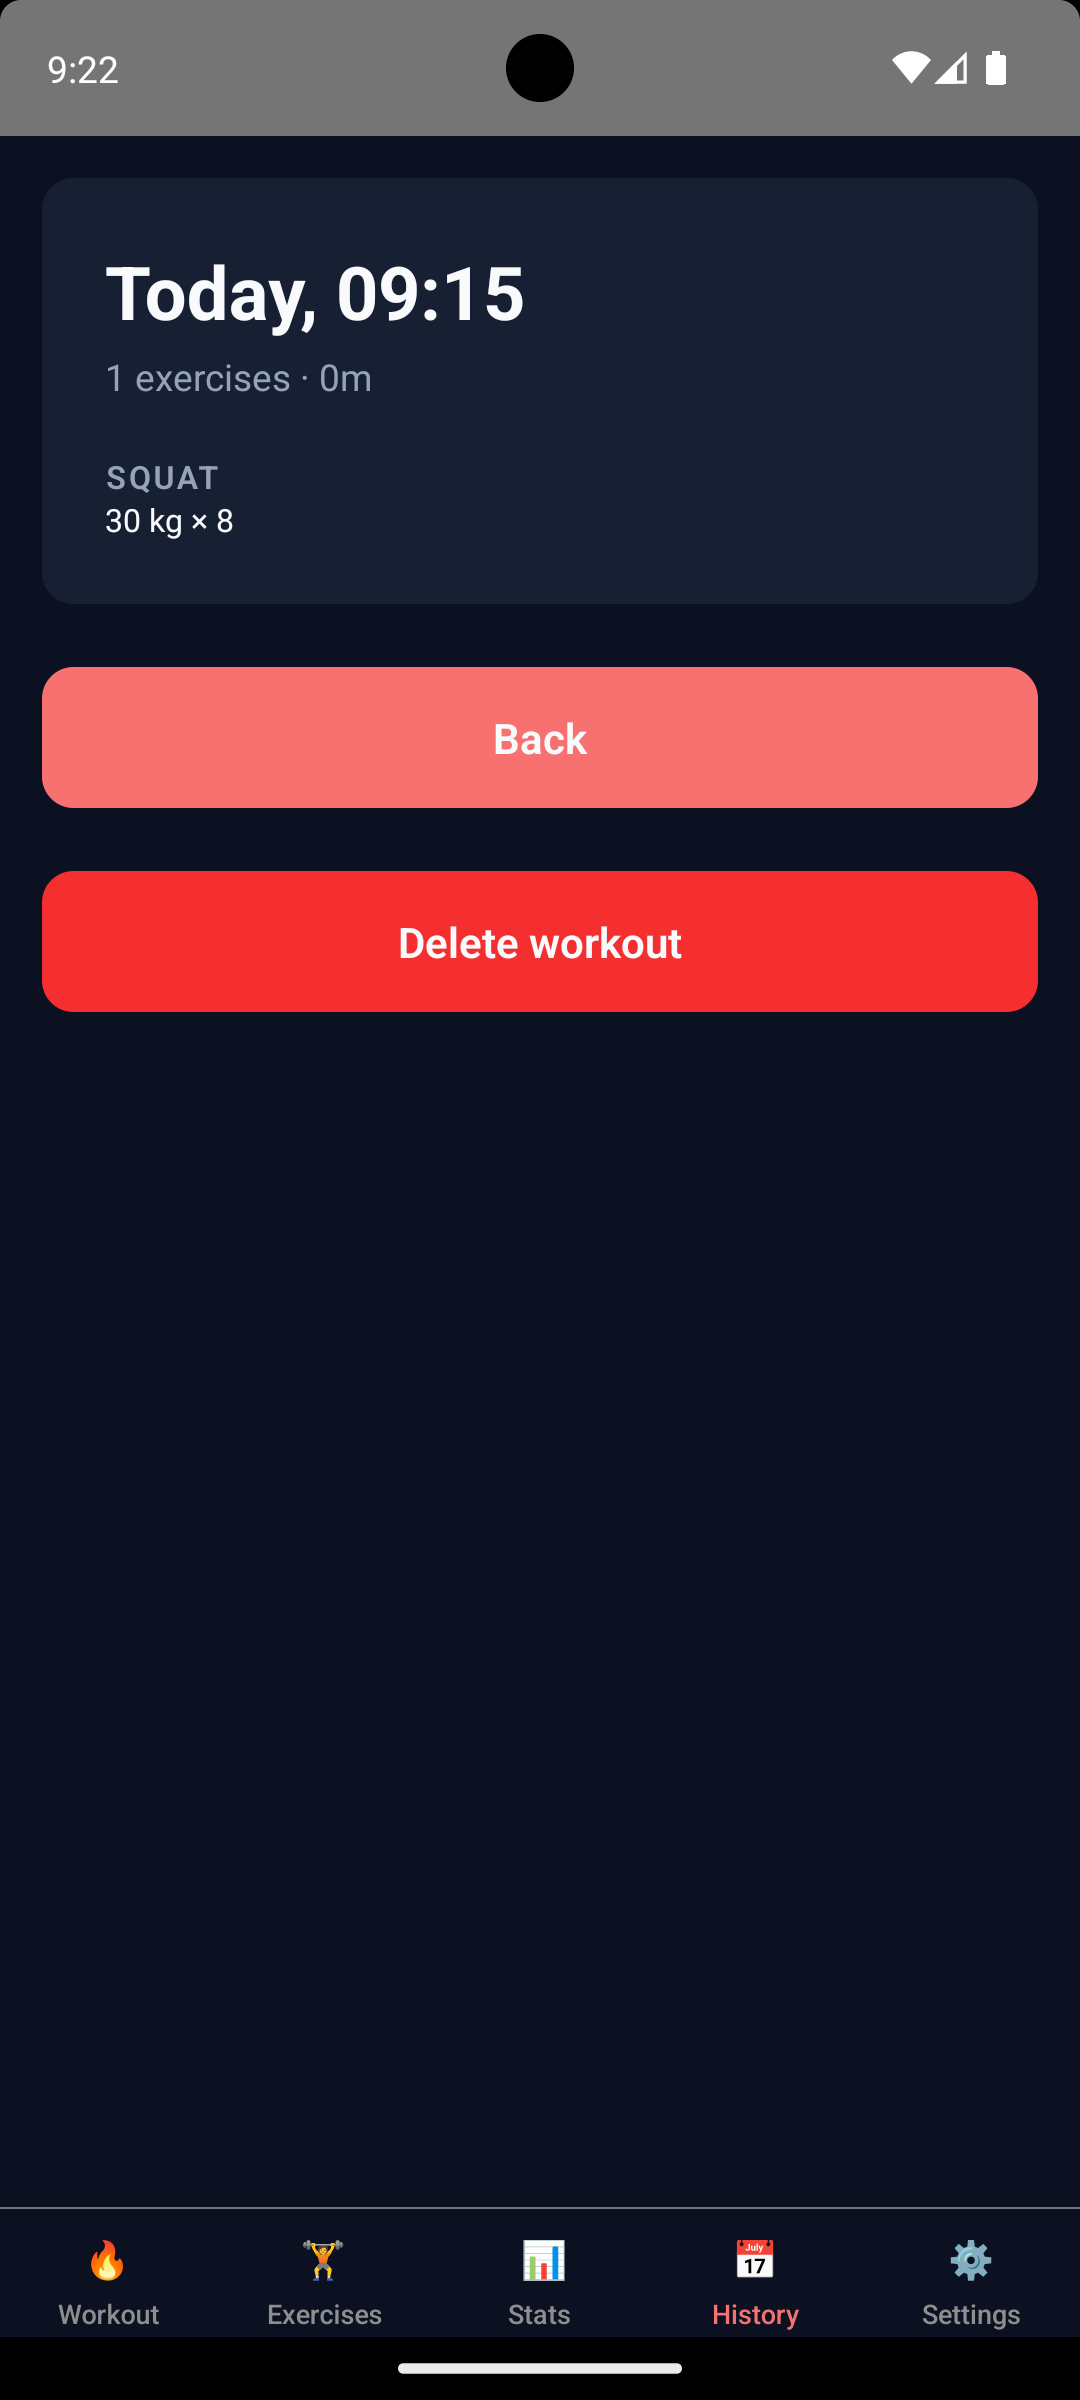
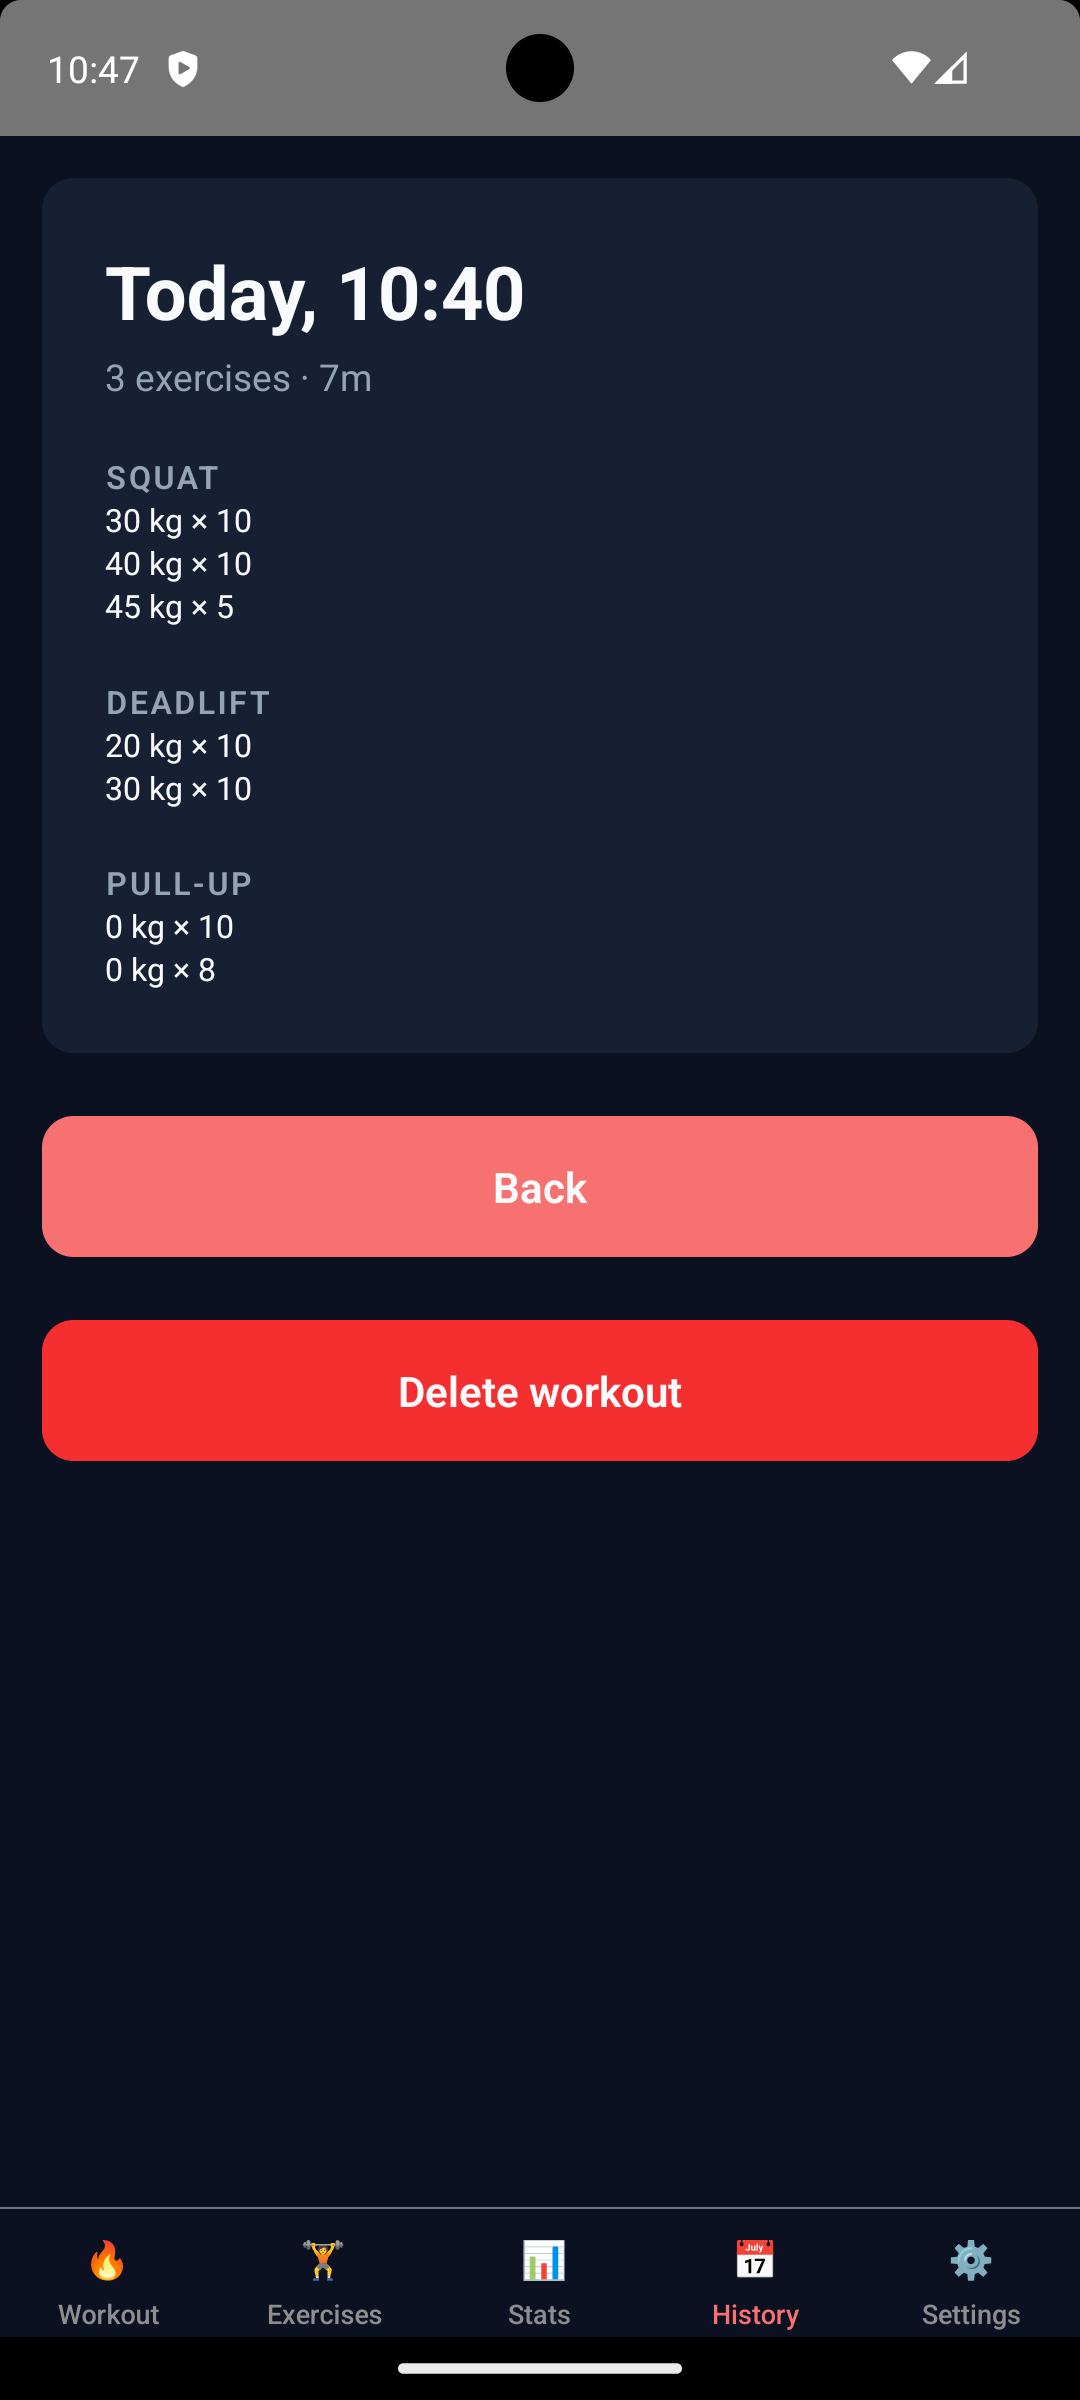
docs: reflect stats and rest timer features in readme

diff --git a/README.md b/README.md
@@ -1,97 +1,148 @@
-This is a new [**React Native**](https://reactnative.dev) project, bootstrapped using [`@react-native-community/cli`](https://github.com/react-native-community/cli).
+# Workout Journal
 
-# Getting Started
+A minimalist strength-training tracker built with modern React Native. Log workouts, track sets and reps, and see your history — all offline-first, with a dark theme and native-feeling gestures.
 
-> **Note**: Make sure you have completed the [Set Up Your Environment](https://reactnative.dev/docs/set-up-your-environment) guide before proceeding.
+![Platform iOS](https://img.shields.io/badge/iOS-17%2B-black)
+![Platform Android](https://img.shields.io/badge/Android-8%2B-green)
+![React Native 0.85](https://img.shields.io/badge/React%20Native-0.85-61dafb)
+![TypeScript strict](https://img.shields.io/badge/TypeScript-strict-3178c6)
 
-## Step 1: Start Metro
+## Screenshots
 
-First, you will need to run **Metro**, the JavaScript build tool for React Native.
+| Sign in                                 | Workout                                  | History                                  | Detail                                 | Stats                              |
+| --------------------------------------- | ---------------------------------------- | ---------------------------------------- | -------------------------------------- | ---------------------------------- |
+| ![Sign in](docs/screenshots/signin.png) | ![Workout](docs/screenshots/workout.png) | ![History](docs/screenshots/history.png) | ![Detail](docs/screenshots/detail.png) | ![Stats](docs/screenshots/stats.png) |
 
-To start the Metro dev server, run the following command from the root of your React Native project:
+## What it does
 
-```sh
-# Using npm
-npm start
+- **Start a workout** from the Workout tab — creates an empty active workout.
+- **Add exercises** from a curated library or your own custom ones.
+- **Log sets** — weight × reps, mark completed, delete individual sets.
+- **Finish workout** — captures duration, moves to History.
+- **Browse history** — swipe left on any workout to delete, tap for full breakdown.
+- **Manage exercises** — 10 preset exercises + your own custom ones, grouped by muscle.
+- **Haptic feedback** — via a custom TurboModule, real vibration on gestures and timer end.
+- **Rest timer** — quick presets (60/90/120s) with a Skia progress ring and haptic notification when done.
+- **Stats** — total workouts, weekly count, exercises and sets, plus a Skia bar chart of workouts per week.
 
-# OR using Yarn
-yarn start
-```
+Data is persisted locally with MMKV. No backend required.
 
-## Step 2: Build and run your app
+## Tech stack
 
-With Metro running, open a new terminal window/pane from the root of your React Native project, and use one of the following commands to build and run your Android or iOS app:
+This project was built as a hands-on tour of the modern React Native ecosystem. Highlights:
 
-### Android
+**Core**
 
-```sh
-# Using npm
-npm run android
+- React Native `0.85.3` (bare CLI, no Expo)
+- New Architecture (Bridgeless, Fabric, Hermes V1) enabled by default
+- React `19.2.3` + React Compiler (automatic memoization)
+- TypeScript `5.8` strict mode with path aliases
 
-# OR using Yarn
-yarn android
-```
+**Navigation**
 
-### iOS
+- React Navigation v7 with the **Static API**
+- Native Stack + Bottom Tabs, nested navigators, modal presentation
+- Switching pattern for auth via `groups` + `if` hooks
+- Deep linking with custom URL scheme (`workoutjournal://`)
 
-For iOS, remember to install CocoaPods dependencies (this only needs to be run on first clone or after updating native deps).
+**State**
 
-The first time you create a new project, run the Ruby bundler to install CocoaPods itself:
+- **TanStack Query** for server state (workouts, exercises)
+- **Zustand** + persist for auth, with **MMKV** as the sync storage backend
+- Correct query key hygiene and mutation invalidations throughout
 
-```sh
+**UI / Interactivity**
+
+- **Reanimated 4** + `react-native-worklets` for UI-thread animations
+- **Gesture Handler v3** (hook-based API) for swipe-to-delete, tap composition
+- **Skia** for the rest timer's progress ring and the weekly bar chart on Stats
+- **FlashList v2** for virtualized lists
+
+**Native modules (custom TurboModules)**
+
+- `AppInfo` — reads bundle version and identifier natively
+- `Haptics` — cross-platform haptic feedback via `UIImpactFeedbackGenerator` (iOS) and `Vibrator` API with waveform patterns (Android)
+
+**Build & CI**
+
+- **Fastlane** with lanes for iOS and Android debug/release builds
+- **GitHub Actions** running lint + type-check on every PR
+
+**Tests**
+
+- **Jest** + **React Native Testing Library** for component tests
+- **Maestro** for end-to-end flows (login, create workout)
+
+## Requirements
+
+- macOS with **Xcode 26+**
+- **Android Studio** with SDK 36 and NDK 27
+- **Node 22+**
+- **JDK 17** (`brew install openjdk@17`)
+- **Ruby 3.3+** with `bundler` (for `pod install`)
+- Physical device recommended for haptic testing (simulators don't vibrate)
+
+## Getting started
+
+```bash
+# 1. Install JS dependencies
+npm install
+
+# 2. Install iOS pods
+cd ios
 bundle install
-```
-
-Then, and every time you update your native dependencies, run:
-
-```sh
 bundle exec pod install
+cd ..
+
+# 3. Run
+npm run android   # or npm run ios
 ```
 
-For more information, please visit [CocoaPods Getting Started guide](https://guides.cocoapods.org/using/getting-started.html).
+On some setups Xcode 26 writes `objectVersion = 70` to the Xcode project, which the current `xcodeproj` gem doesn't fully support. If `pod install` fails with that error, downgrade the version in `ios/WorkoutJournal.xcodeproj/project.pbxproj` to `56` before running `pod install`, then let Xcode upgrade it back on open.
 
-```sh
-# Using npm
-npm run ios
+## Testing
 
-# OR using Yarn
-yarn ios
+```bash
+npm test                       # Jest unit + component tests
+maestro test .maestro/         # E2E flows (requires simulator with app installed)
 ```
 
-If everything is set up correctly, you should see your new app running in the Android Emulator, iOS Simulator, or your connected device.
+## Project structure
 
-This is one way to run your app — you can also build it directly from Android Studio or Xcode.
+```
+src/
+├── api/           # data-layer functions (pure async, MMKV-backed)
+├── components/    # reusable UI
+├── haptics/       # public wrapper over Haptics TurboModule
+├── hooks/         # TanStack Query hooks
+├── navigation/    # RootStack, RootTabs, HistoryStack
+├── screens/       # feature screens
+├── specs/         # TurboModule TS specs (Codegen input)
+├── stores/        # Zustand stores
+├── storage/       # MMKV singleton
+├── theme/         # design tokens (dark theme)
+├── types/         # global type augmentations
+└── utils/         # small helpers
+```
 
-## Step 3: Modify your app
+Native code lives in:
 
-Now that you have successfully run the app, let's make changes!
+- `android/app/src/main/java/com/workoutjournal/modules/` — Kotlin modules
+- `ios/modules/` — Obj-C++ modules
 
-Open `App.tsx` in your text editor of choice and make some changes. When you save, your app will automatically update and reflect these changes — this is powered by [Fast Refresh](https://reactnative.dev/docs/fast-refresh).
+## Known limitations
 
-When you want to forcefully reload, for example to reset the state of your app, you can perform a full reload:
+Honest list of what's rough or unfinished:
 
-- **Android**: Press the <kbd>R</kbd> key twice or select **"Reload"** from the **Dev Menu**, accessed via <kbd>Ctrl</kbd> + <kbd>M</kbd> (Windows/Linux) or <kbd>Cmd ⌘</kbd> + <kbd>M</kbd> (macOS).
-- **iOS**: Press <kbd>R</kbd> in iOS Simulator.
+- **Time-based exercises** (plank, hold) reuse the `reps` field as seconds. A proper `measurementType` field on `Exercise` would be cleaner but touches models, forms, and rendering.
+- **Auth is mocked** — Sign In toggles a flag, no real backend or credentials.
+- **Deep-link cold-start with a logged-out user** may not always resume to the requested screen after sign-in.
+- **`ExerciseCard` in WorkoutDetail** currently reuses the library card; a lighter read-only variant would be cleaner.
 
-## Congratulations! :tada:
+## Notes on the build
 
-You've successfully run and modified your React Native App. :partying_face:
+The project intentionally uses the newest RN 0.85 defaults (Bridgeless, Fabric, JSI-only) rather than legacy fallbacks. That surfaces some rough edges in the ecosystem — `react-native-mmkv` v4 pulls in `react-native-nitro-modules`, Reanimated 4 splits worklets into a separate package, Gesture Handler v3 deprecates the old builder API. All of it is documented in code and in the git history.
 
-### Now what?
+## License
 
-- If you want to add this new React Native code to an existing application, check out the [Integration guide](https://reactnative.dev/docs/integration-with-existing-apps).
-- If you're curious to learn more about React Native, check out the [docs](https://reactnative.dev/docs/getting-started).
-
-# Troubleshooting
-
-If you're having issues getting the above steps to work, see the [Troubleshooting](https://reactnative.dev/docs/troubleshooting) page.
-
-# Learn More
-
-To learn more about React Native, take a look at the following resources:
-
-- [React Native Website](https://reactnative.dev) - learn more about React Native.
-- [Getting Started](https://reactnative.dev/docs/environment-setup) - an **overview** of React Native and how setup your environment.
-- [Learn the Basics](https://reactnative.dev/docs/getting-started) - a **guided tour** of the React Native **basics**.
-- [Blog](https://reactnative.dev/blog) - read the latest official React Native **Blog** posts.
-- [`@facebook/react-native`](https://github.com/facebook/react-native) - the Open Source; GitHub **repository** for React Native.
+MIT — do whatever you want with it.
